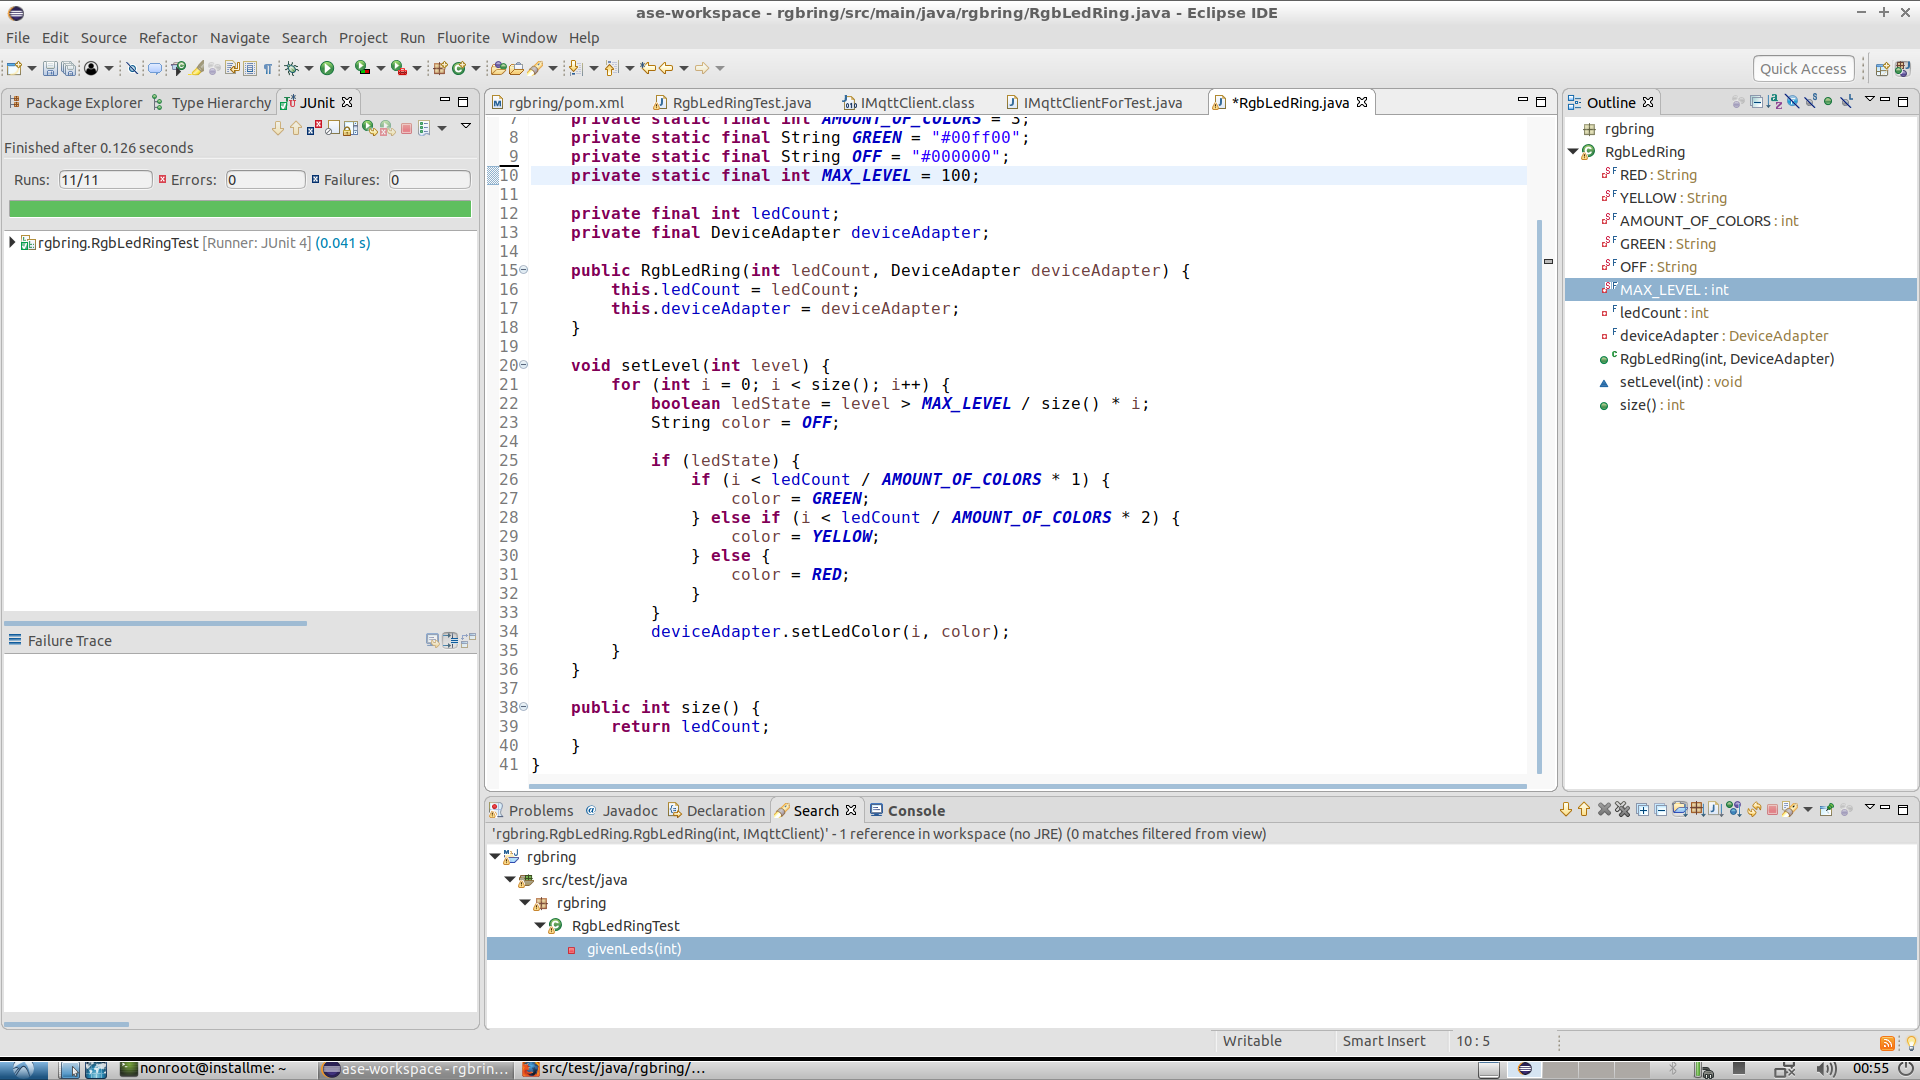
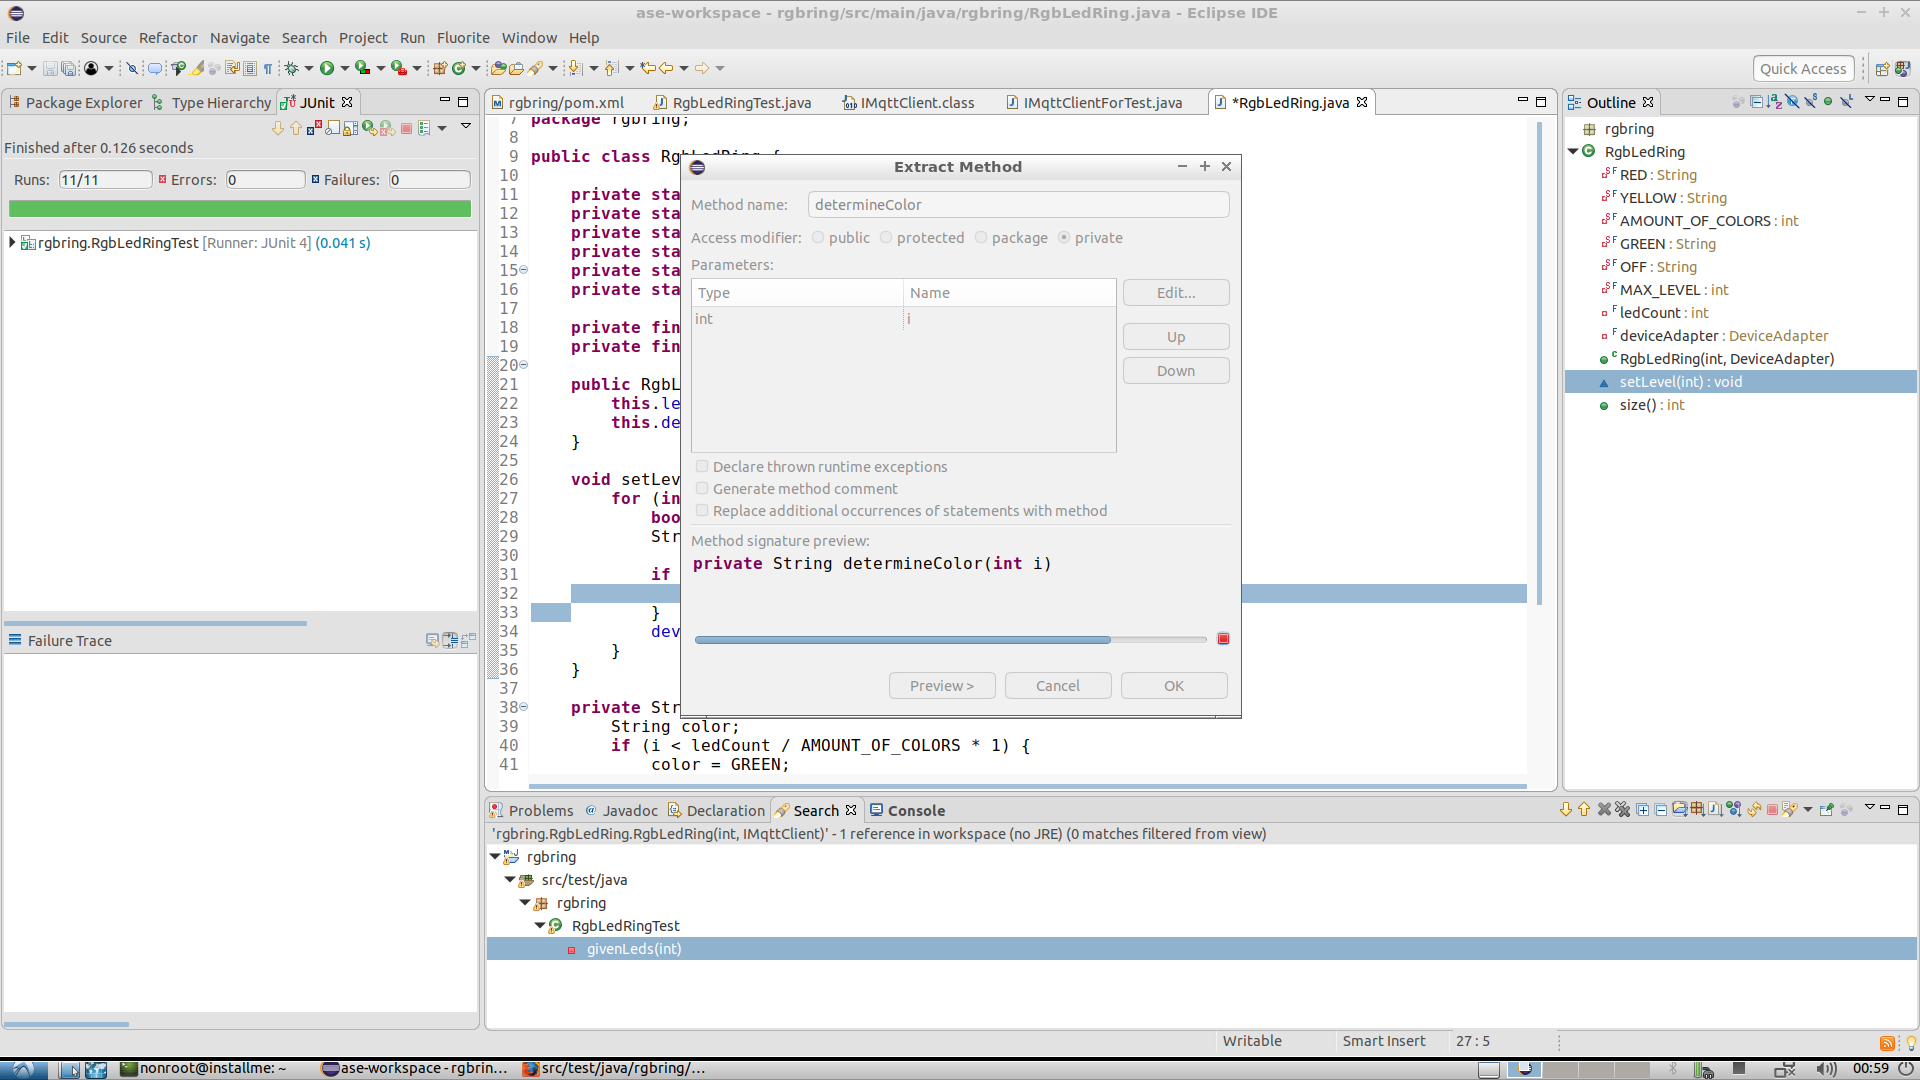
autocommit on change

diff --git a/src/main/java/rgbring/RgbLedRing.java b/src/main/java/rgbring/RgbLedRing.java
@@ -23,16 +23,22 @@ public class RgbLedRing {
 			String color = OFF;
 
 			if (ledState) {
-				if (i < ledCount / AMOUNT_OF_COLORS * 1) {
-					color = GREEN;
-				} else if (i < ledCount / AMOUNT_OF_COLORS * 2) {
-					color = YELLOW;
-				} else {
-					color = RED;
-				} 
+				color = determineColor(i); 
 			} 
 			deviceAdapter.setLedColor(i, color);
 		}
+	}
+
+	private String determineColor(int i) {
+		String color;
+		if (i < ledCount / AMOUNT_OF_COLORS * 1) {
+			color = GREEN;
+		} else if (i < ledCount / AMOUNT_OF_COLORS * 2) {
+			color = YELLOW;
+		} else {
+			color = RED;
+		}
+		return color;
 	}
 
 	public int size() {
